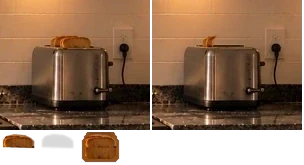
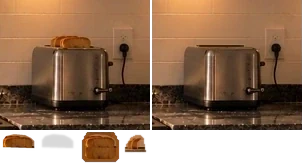
fix: separate remaining toast and clean oven support

Changed region(s): [[0.3849, 0.8182, 0.5033, 0.9394], [0.6513, 0.2121, 0.7105, 0.303]]

diff --git a/sdk/casino-sdk/examples/bad-idea-machine/src/play/KitchenObjectTruthProof.tsx b/sdk/casino-sdk/examples/bad-idea-machine/src/play/KitchenObjectTruthProof.tsx
@@ -246,15 +246,17 @@ function PlateReference({ zoom = 1 }: Readonly<{ zoom?: number }>) {
 function LayeredToast({
   bodyVisible,
   shadowVisible,
+  remainingVisible,
   zoom = 1,
 }: Readonly<{
   bodyVisible: boolean;
   shadowVisible: boolean;
+  remainingVisible: boolean;
   zoom?: number;
 }>) {
   const layers = useMemo(
-    () => kitchenToastTruthLayers(bodyVisible, shadowVisible),
-    [bodyVisible, shadowVisible],
+    () => kitchenToastTruthLayers(bodyVisible, shadowVisible, remainingVisible),
+    [bodyVisible, shadowVisible, remainingVisible],
   );
 
   return (
@@ -268,6 +270,14 @@ function LayeredToast({
       }}
     >
       <ToastSprite frame={KITCHEN_TOAST_TRUTH.frames.support} zoom={zoom} />
+      {layers.includes('remainingBody') ? (
+        <ToastSprite
+          frame={KITCHEN_TOAST_TRUTH.frames.remainingBody}
+          left={KITCHEN_TOAST_TRUTH.restPlacement.remainingBody.x}
+          top={KITCHEN_TOAST_TRUTH.restPlacement.remainingBody.y}
+          zoom={zoom}
+        />
+      ) : null}
       {layers.includes('shadow') ? (
         <ToastSprite
           frame={KITCHEN_TOAST_TRUTH.frames.shadow}
@@ -379,6 +389,7 @@ export function KitchenObjectTruthProof() {
   const [object, setObject] = useState<TruthObject>('pan');
   const [bodyVisible, setBodyVisible] = useState(true);
   const [shadowVisible, setShadowVisible] = useState(true);
+  const [remainingToastVisible, setRemainingToastVisible] = useState(true);
   const [blinkReference, setBlinkReference] = useState(false);
   const [stackBodyVisible, setStackBodyVisible] = useState(true);
   const [stackShadowVisible, setStackShadowVisible] = useState(true);
@@ -403,6 +414,7 @@ export function KitchenObjectTruthProof() {
     setObject(next);
     setBodyVisible(true);
     setShadowVisible(true);
+    setRemainingToastVisible(true);
     setBlinkReference(false);
     setStackBodyVisible(true);
     setStackShadowVisible(true);
@@ -432,7 +444,7 @@ export function KitchenObjectTruthProof() {
       return blinkReference ? (
         <ToastReference zoom={2} />
       ) : (
-        <LayeredToast bodyVisible={bodyVisible} shadowVisible={shadowVisible} zoom={2} />
+        <LayeredToast bodyVisible={bodyVisible} shadowVisible={shadowVisible} remainingVisible={remainingToastVisible} zoom={2} />
       );
     }
 
@@ -509,6 +521,21 @@ export function KitchenObjectTruthProof() {
               </button>
             ))}
           </>
+        ) : object === 'toast' ? (
+          <>
+            <button type="button" style={{ ...button, borderColor: bodyVisible ? '#7ce2a5' : '#8b4c48' }}
+              onClick={() => setBodyVisible(v => !v)}>
+              {bodyVisible ? 'Hide' : 'Show'} hero toast
+            </button>
+            <button type="button" style={{ ...button, borderColor: remainingToastVisible ? '#7ce2a5' : '#8b4c48' }}
+              onClick={() => setRemainingToastVisible(v => !v)}>
+              {remainingToastVisible ? 'Hide' : 'Show'} remaining slice
+            </button>
+            <button type="button" style={{ ...button, borderColor: shadowVisible ? '#6bc8e6' : '#8b4c48' }}
+              onClick={() => setShadowVisible(v => !v)}>
+              {shadowVisible ? 'Hide' : 'Show'} hero shadow
+            </button>
+          </>
         ) : (
           <>
           <button
@@ -535,7 +562,9 @@ export function KitchenObjectTruthProof() {
           {blinkReference ? 'Show reconstruction' : 'Show reference'}
         </button>
         <span style={{ alignSelf: 'center', color: '#a9b5b6', fontSize: 12 }}>
-          Current: {object} · {object === 'plates' ? 'four independent toggles' : state}
+          Current: {object} · {object === 'plates' ? 'four independent toggles' : object === 'toast'
+            ? `${bodyVisible ? 'hero visible' : 'hero hidden'} · ${remainingToastVisible ? 'other slice visible' : 'other slice hidden'}`
+            : state}
         </span>
       </section>
 
@@ -579,20 +608,22 @@ export function KitchenObjectTruthProof() {
             <div style={{ display: 'grid', gap: 16, justifyItems: 'center' }}>
               <AirborneToastFace />
               <p style={{ maxWidth: 420, margin: 0, color: '#9fabad', lineHeight: 1.45, textAlign: 'center' }}>
-                The rest sprite remains the exact visible photographed toast. This full face exists only so later rotation can reveal previously occluded bread instead of stretching the rest sprite or switching to a generated object.
+                The launched toast and the slice left in the toaster are separate. Hide both to inspect the empty slot. This full face is only a diagnostic for bread hidden at rest; rotation is still blocked.
               </p>
             </div>
           ) : object === 'plates' ? (
             <div style={{ display: 'grid', gap: 12, justifyItems: 'center' }}>
+              <small style={{ color: '#a9b5b6' }}>Current toggles</small>
               <LayeredPlates
                 stackBodyVisible={stackBodyVisible}
                 stackShadowVisible={stackShadowVisible}
                 heroBodyVisible={heroBodyVisible}
                 heroShadowVisible={heroShadowVisible}
               />
+              <small style={{ color: '#a9b5b6' }}>Approved intact reference</small>
               <PlateReference />
               <p style={{ maxWidth: 420, margin: 0, color: '#9fabad', lineHeight: 1.45, textAlign: 'center' }}>
-                Hide the hero plate to see the remaining stack missing one. Hide both bodies and shadows to inspect the reconstructed cabinet backing and the untouched lower crockery. Motion and hidden plate face are outside this static gate.
+                The hero is only the thin top plate of the upper pile. The remaining stack is the upper plates beneath it. The cabinet wood, lower bowl and plates, and mugs stay in the support. Hide both plate bodies to see that support alone. Motion and the hidden plate face are outside this static gate.
               </p>
             </div>
           ) : (
@@ -617,7 +648,7 @@ export function KitchenObjectTruthProof() {
         <div style={{ ...card, padding: 12 }}>
           <strong>Support-only pass rule</strong>
           <p style={{ color: '#a9b5b6', marginBottom: 0, lineHeight: 1.45 }}>
-            With body and shadow hidden, the real support must remain believable. Toast keeps the toaster/remaining slices; towel reveals the complete oven handle and door.
+            With objects and shadows hidden, the real support must remain believable. Hiding both toast slices reveals an empty toaster slot; hiding the towel reveals a clean oven handle and door.
           </p>
         </div>
 

diff --git a/sdk/casino-sdk/examples/bad-idea-machine/src/scene/kitchen-object-truth-proof.ts b/sdk/casino-sdk/examples/bad-idea-machine/src/scene/kitchen-object-truth-proof.ts
@@ -1,5 +1,5 @@
 export type KitchenPanTruthLayer = 'support' | 'shadow' | 'body';
-export type KitchenToastTruthLayer = 'support' | 'shadow' | 'body';
+export type KitchenToastTruthLayer = 'support' | 'remainingBody' | 'shadow' | 'body';
 export type KitchenTowelTruthLayer = 'support' | 'shadow' | 'body';
 export type KitchenPlateTruthLayer = 'support' | 'stackShadow' | 'stackBody' | 'heroShadow' | 'heroBody';
 
@@ -45,10 +45,12 @@ export const KITCHEN_TOAST_TRUTH = {
     body: { x: 0, y: 132, width: 37, height: 19 },
     shadow: { x: 40, y: 132, width: 35, height: 18 },
     face: { x: 80, y: 132, width: 41, height: 31 },
-  } satisfies Readonly<Record<'reference' | 'support' | 'body' | 'shadow' | 'face', KitchenTruthAtlasFrame>>,
+    remainingBody: { x: 124, y: 132, width: 26, height: 22 },
+  } satisfies Readonly<Record<'reference' | 'support' | 'body' | 'shadow' | 'face' | 'remainingBody', KitchenTruthAtlasFrame>>,
   restPlacement: {
     body: { x: 58, y: 32 },
     shadow: { x: 60, y: 33 },
+    remainingBody: { x: 47, y: 30 },
   },
   source: 'approved-master-local-extraction' as const,
   hiddenFaceSource: 'deterministic-local-reconstruction-from-approved-toast-pixels' as const,
@@ -121,8 +123,10 @@ export function kitchenPanTruthLayers(
 export function kitchenToastTruthLayers(
   bodyVisible: boolean,
   shadowVisible: boolean,
+  remainingVisible = true,
 ): readonly KitchenToastTruthLayer[] {
   const layers: KitchenToastTruthLayer[] = ['support'];
+  if (remainingVisible) layers.push('remainingBody');
   if (shadowVisible) layers.push('shadow');
   if (bodyVisible) layers.push('body');
   return layers;
@@ -246,7 +250,7 @@ export function validateKitchenToastTruth(): readonly string[] {
   }
 
   for (const [id, placement] of Object.entries(truth.restPlacement)) {
-    const frame = truth.frames[id as 'body' | 'shadow'];
+    const frame = truth.frames[id as 'body' | 'shadow' | 'remainingBody'];
     if (placement.x < 0 ||
         placement.y < 0 ||
         placement.x + frame.width > truth.cropWidth ||

diff --git a/sdk/casino-sdk/examples/bad-idea-machine/src/scene/kitchen-object-truth-proof.test.ts b/sdk/casino-sdk/examples/bad-idea-machine/src/scene/kitchen-object-truth-proof.test.ts
@@ -75,11 +75,12 @@ describe('kitchen single-object truth proofs', () => {
     );
   });
 
-  it('keeps the hero toast rest body and shadow independently optional over a support that preserves the remaining toast', () => {
-    expect(kitchenToastTruthLayers(false, false)).toEqual(['support']);
-    expect(kitchenToastTruthLayers(false, true)).toEqual(['support', 'shadow']);
-    expect(kitchenToastTruthLayers(true, false)).toEqual(['support', 'body']);
-    expect(kitchenToastTruthLayers(true, true)).toEqual(['support', 'shadow', 'body']);
+  it('separates the remaining slice from the hero and reveals an empty support when both are hidden', () => {
+    expect(kitchenToastTruthLayers(false, false, false)).toEqual(['support']);
+    expect(kitchenToastTruthLayers(false, false, true)).toEqual(['support', 'remainingBody']);
+    expect(kitchenToastTruthLayers(false, true, false)).toEqual(['support', 'shadow']);
+    expect(kitchenToastTruthLayers(true, false, false)).toEqual(['support', 'body']);
+    expect(kitchenToastTruthLayers(true, true)).toEqual(['support', 'remainingBody', 'shadow', 'body']);
   });
 
   it('registers the oven towel as a repository-local atlas over a clean oven support', () => {

diff --git a/sdk/casino-sdk/examples/bad-idea-machine/scripts/repair-object-supports.py b/sdk/casino-sdk/examples/bad-idea-machine/scripts/repair-object-supports.py
@@ -1,0 +1,112 @@
+"""Separate the remaining toast and clean narrow towel traces in local truth atlases.
+
+The reference, hero body, and shadow pixels are retained from the existing
+approved-source atlases. Only the support pixels hidden behind the objects are
+reconstructed from adjacent pixels of those same atlases.
+"""
+
+from pathlib import Path
+
+from PIL import Image, ImageDraw, ImageFilter, ImageStat, ImageChops
+
+
+ROOT = Path(__file__).resolve().parents[1]
+TRUTH = ROOT / 'public/rooms/kitchen/rebuild/truth'
+
+
+def brightness(pixel):
+    return sum(pixel[:3]) / 3
+
+
+def clean_toast_support(atlas):
+    support = atlas.crop((152, 0, 302, 130))
+    remaining_box = (124, 132, 150, 154)
+    remaining = atlas.crop(remaining_box)
+    if remaining.getchannel('A').getbbox() is None:
+        alpha = Image.new('L', support.size)
+        ImageDraw.Draw(alpha).polygon([
+            (48, 47), (49, 42), (52, 38), (54, 35), (58, 33),
+            (63, 33), (66, 36), (67, 46), (68, 49), (48, 49),
+        ], fill=255)
+        alpha = alpha.filter(ImageFilter.GaussianBlur(.55))
+        remaining = support.crop((47, 30, 73, 52))
+        remaining.putalpha(alpha.crop((47, 30, 73, 52)))
+        atlas.paste(remaining, remaining_box[:2])
+
+    if brightness(support.getpixel((59, 38))) < 95:
+        mask = Image.new('L', support.size)
+        ImageDraw.Draw(mask).rectangle((47, 31, 71, 47), fill=255)
+        mask = mask.filter(ImageFilter.GaussianBlur(1))
+        cleaned = support.copy()
+        for y in range(28, 51):
+            for x in range(44, 75):
+                opacity = mask.getpixel((x, y)) / 255
+                if not opacity:
+                    continue
+                if y <= 44:
+                    left = support.getpixel((44, y))
+                    right = support.getpixel((74, y))
+                    fraction = (x - 44) / 30
+                    target = tuple(round((1-fraction)*a + fraction*b) for a, b in zip(left, right))
+                else:
+                    target = support.getpixel((78, y))
+                original = support.getpixel((x, y))
+                cleaned.putpixel((x, y), tuple(round((1-opacity)*a + opacity*b) for a, b in zip(original, target)))
+        atlas.paste(cleaned, (152, 0))
+    return atlas
+
+
+def clean_towel_support(atlas):
+    support = atlas.crop((127, 0, 252, 175))
+    if brightness(support.getpixel((23, 28))) < 150 and brightness(support.getpixel((22, 100))) < 95:
+        return atlas
+    mask = Image.new('L', support.size)
+    draw = ImageDraw.Draw(mask)
+    draw.polygon([(20, 24), (26, 24), (26, 33), (21, 34)], fill=255)
+    draw.polygon([(20, 92), (24, 92), (24, 110), (26, 125), (27, 136), (20, 136)], fill=255)
+    mask = mask.filter(ImageFilter.GaussianBlur(.7))
+    cleaned = support.copy()
+    for y in range(20, 140):
+        for x in range(18, 30):
+            opacity = mask.getpixel((x, y)) / 255
+            if opacity:
+                original = support.getpixel((x, y))
+                adjacent = support.getpixel((x + 9, y))
+                cleaned.putpixel((x, y), tuple(round((1-opacity)*a + opacity*b) for a, b in zip(original, adjacent)))
+    atlas.paste(cleaned, (127, 0))
+    return atlas
+
+
+def main():
+    for name, repair in [('toast', clean_toast_support), ('towel', clean_towel_support)]:
+        path = TRUTH / f'{name}-truth-atlas.webp'
+        original = Image.open(path).convert('RGBA')
+        repaired = repair(original.copy())
+        if ImageChops.difference(original.convert('RGB'), repaired.convert('RGB')).getbbox() is None:
+            print(f'{name}: already clean')
+            continue
+        # Lossless re-encoding keeps every decoded approved reference and body
+        # pixel identical; only the support and new remaining-slice frame move.
+        if name == 'toast':
+            for box in [(0, 0, 150, 130), (0, 132, 37, 151), (40, 132, 75, 150), (80, 132, 121, 163)]:
+                assert ImageChops.difference(original.crop(box).convert('RGB'), repaired.crop(box).convert('RGB')).getbbox() is None
+            reference = repaired.crop((0, 0, 150, 130)).convert('RGB')
+            support = repaired.crop((152, 0, 302, 130))
+            support.alpha_composite(repaired.crop((124, 132, 150, 154)), (47, 30))
+            support.alpha_composite(repaired.crop((40, 132, 75, 150)), (60, 33))
+            support.alpha_composite(repaired.crop((0, 132, 37, 151)), (58, 32))
+            error = sum(ImageStat.Stat(ImageChops.difference(reference, support.convert('RGB'))).mean) / 3
+            assert error < 3.2, f'toast rest registration drifted: {error:.3f}'
+            print(f'toast intact-rest MAE: {error:.3f}')
+        else:
+            for box in [(0, 0, 125, 175), (0, 177, 77, 320), (79, 177, 160, 325)]:
+                assert ImageChops.difference(original.crop(box).convert('RGB'), repaired.crop(box).convert('RGB')).getbbox() is None
+        repaired.save(path, format='WEBP', lossless=True, method=6)
+        with Image.open(path) as decoded:
+            decoded.load()
+            assert decoded.size == original.size
+        print(f'{name}: repaired {path.name}')
+
+
+if __name__ == '__main__':
+    main()

diff --git a/sdk/casino-sdk/examples/bad-idea-machine/scripts/verify-object-supports.py b/sdk/casino-sdk/examples/bad-idea-machine/scripts/verify-object-supports.py
@@ -1,0 +1,31 @@
+"""Decode the toast/towel atlases and check the static support separation."""
+
+from pathlib import Path
+
+from PIL import Image, ImageChops, ImageStat
+
+
+TRUTH = Path(__file__).resolve().parents[1] / 'public/rooms/kitchen/rebuild/truth'
+toast = Image.open(TRUTH/'toast-truth-atlas.webp').convert('RGBA')
+towel = Image.open(TRUTH/'towel-truth-atlas.webp').convert('RGBA')
+assert toast.size == (304, 165) and towel.size == (252, 325)
+
+toast_support = toast.crop((152, 0, 302, 130))
+remaining = toast.crop((124, 132, 150, 154))
+assert remaining.getchannel('A').getbbox(), 'the second toast slice has no independent pixels'
+assert sum(toast_support.getpixel((59, 38))[:3])/3 > 115, 'toast tip remains in empty toaster support'
+assert sum(toast_support.getpixel((55, 42))[:3])/3 > 110, 'toast edge remains in empty toaster support'
+
+rest = toast_support.copy()
+rest.alpha_composite(remaining, (47, 30))
+rest.alpha_composite(toast.crop((40, 132, 75, 150)), (60, 33))
+rest.alpha_composite(toast.crop((0, 132, 37, 151)), (58, 32))
+reference = toast.crop((0, 0, 150, 130)).convert('RGB')
+toast_error = sum(ImageStat.Stat(ImageChops.difference(reference, rest.convert('RGB'))).mean)/3
+assert toast_error < 3.2, f'toast intact rest differs from approved crop: {toast_error:.3f}'
+
+towel_support = towel.crop((127, 0, 252, 175))
+assert sum(towel_support.getpixel((23, 28))[:3])/3 < 130, 'towel trace remains on oven handle'
+assert sum(towel_support.getpixel((22, 100))[:3])/3 < 95, 'towel trace remains on oven door'
+
+print(f'Toast and towel supports decode cleanly; independent second slice intact; toast rest MAE {toast_error:.3f}')

diff --git a/docs/checkpoints/kitchen-rebuild-from-cp1/plate-truth.md b/docs/checkpoints/kitchen-rebuild-from-cp1/plate-truth.md
@@ -11,3 +11,7 @@ Review the four toggles separately: hide both plate bodies and shadows to inspec
 ## Static visual review, 2026-09-23
 
 The approved master and the six atlas compositions were inspected at native room scale and enlarged crop scale. The first extraction failed: its hero mask included multiple bright plate rims and its stack mask included left cabinet pixels. The masks were corrected against the photographic rim positions and inspected again on transparency, on the cabinet support, and in the full 1000×600 room. At this scope, the top hero plate, remaining stack, support, separate shadows, and combined intact rest state are visually accepted as **static assets**. The hero face exposed by rotation has not been authored or inspected. The interactive browser route could not be screenshot in this workspace because the local browser has no Chrome binary; the atlas compositions and HTTP route were checked separately. This is not motion acceptance or approval of the whole Kitchen.
+
+The deployed route was subsequently reviewed in a browser at commit `5fb5f9d`: the four toggles, support-only state, isolated shadows, and intact reference switch passed the static gate. The earlier local-browser limitation no longer limits this scoped acceptance.
+
+The thin bright rim at the very top of the upper pile is the **hero plate**. The **remaining stack** is the upper plates directly beneath it. The cabinet wood, lower bowl, lower plates, and mugs are part of the **support** and remain when both upper plate bodies are hidden. Each upper plate component has its own faint contact shadow. The visually small change when hiding only the hero is intentional: one thin plate leaves the top of a tall stack. No moving plate face is accepted yet.

diff --git a/docs/checkpoints/kitchen-rebuild-from-cp1/object-support-repair.md b/docs/checkpoints/kitchen-rebuild-from-cp1/object-support-repair.md
@@ -1,0 +1,7 @@
+# Toast and towel static support repair
+
+The approved Kitchen master remains authoritative. `scripts/repair-object-supports.py` uses only the existing approved-source truth atlases and adjacent pixels to clean the supports; it does not replace the master, the photographed toast body, the towel body, their reference crops, or their shadows.
+
+The second, stationary slice was previously baked into the toast support and looked like a piece of the hidden hero. It now has an independent atlas frame. The proof page provides separate **hero toast**, **remaining slice**, and **hero shadow** toggles. Hide both slices and the shadow to see the empty toaster slot; hide only the hero to leave the intended second slice. With everything shown, the rest crop still matches the approved reference.
+
+The towel support contained a small bright trace at the oven handle and a vertical stripe down the oven door. These traces were replaced from adjacent oven pixels within the same atlas. Hiding towel and shadow now reveals the clean handle and door. This is a static support check; neither object is cleared for motion.
